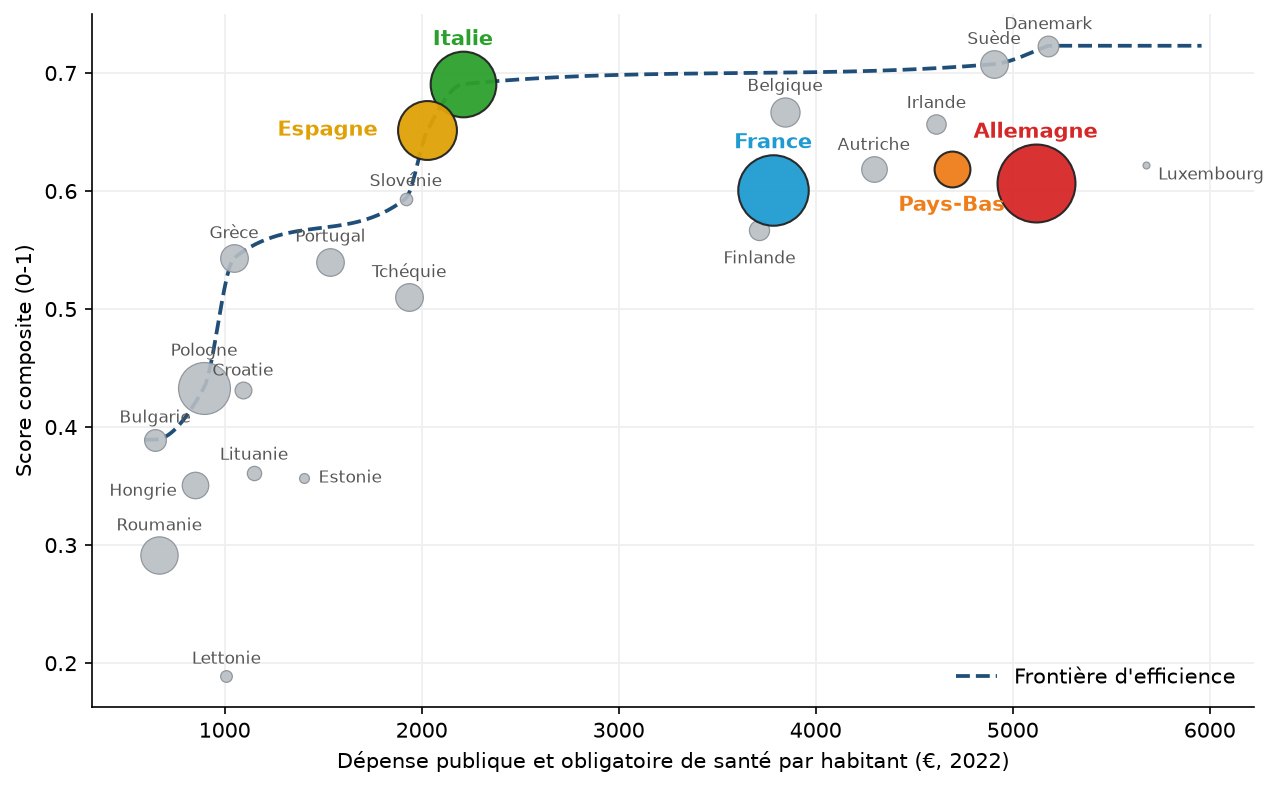
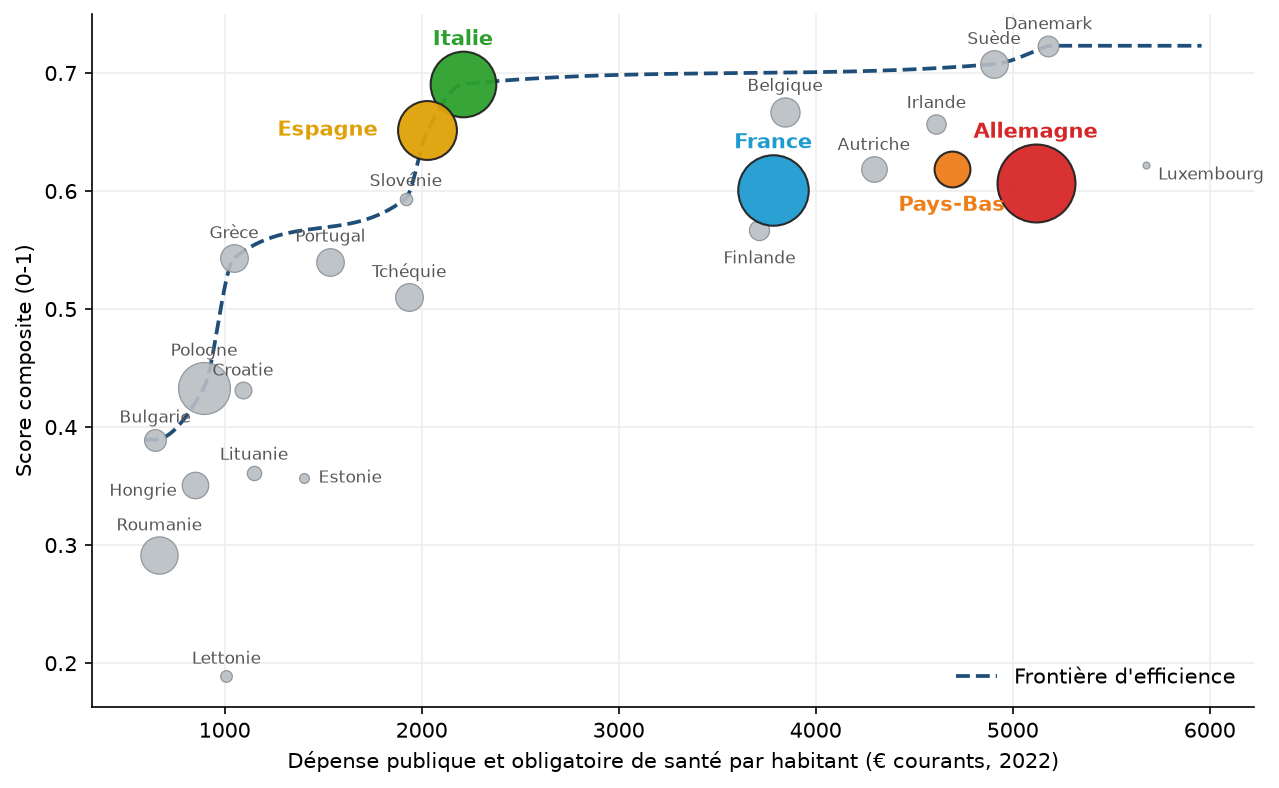
Efficience : figure santé en parité de pouvoir d'achat (variante)
Claude-Session: https://claude.ai/code/session_01SW7mKrk2bK8EYwjJ4TJnMY

Changed region(s): [[0.2134, 0.9442, 0.8233, 0.9746]]

diff --git a/pisa/efficience/bulletin.py b/pisa/efficience/bulletin.py
@@ -136,6 +136,7 @@ pop = W.loc[("pop_totale", 2022)]
 _d = serie("edu_dep_eleve_cite1_2_pub_eur")
 dep_edu = _d.loc[2022:2024].mean().fillna(_d.ffill().iloc[-1]).reindex(PE)   # à défaut : dernière valeur
 dep_san = serie("sante_dep_pub_hab_eur").loc[2022].reindex(PS)
+dep_san_ppa = serie("sante_dep_pub_hab_spa").loc[2022].reindex(PS)       # variante : SPA (PPA Eurostat)
 
 res = {}
 for dom, pays, poids, dep in (("education", PE, eleves.reindex(PE), dep_edu),
@@ -146,6 +147,10 @@ for dom, pays, poids, dep in (("education", PE, eleves.reindex(PE), dep_edu),
     res[dom] = dict(N=N, O=O, g=g, ecart=ecart, C=C, dep=dep, front=front, inverse=inverse, S=S, R=R,
                     poids=poids)
 
+# variante santé en PPA : mêmes scores, seule la dépense (axe horizontal) change
+_f, _i, _ = frontiere(dep_san_ppa, res["sante"]["g"])
+res_ppa = dict(res["sante"], dep=dep_san_ppa, front=_f, inverse=_i)
+
 tab = []
 for dom, r in res.items():
     rang = r["g"].rank(ascending=False).astype(int)
@@ -154,6 +159,9 @@ for dom, r in res.items():
                     "ecart_ue_points": 100 * r["ecart"][p],
                     **{f"contrib_{o}": 100 * r["C"].loc[p, o] for o in r["C"].columns},
                     "depense": r["dep"][p], "ratio_efficience": r["g"][p] / float(r["front"](r["dep"][p])),
+                    **({"depense_ppa": dep_san_ppa[p],
+                        "ratio_efficience_ppa": r["g"][p] / float(res_ppa["front"](dep_san_ppa[p]))}
+                       if dom == "sante" else {}),
                     "rang_median_sensib": np.median(r["R"].loc[p]),
                     "rang_p5": np.percentile(r["R"].loc[p], 5), "rang_p95": np.percentile(r["R"].loc[p], 95)})
 TAB = pd.DataFrame(tab)
@@ -185,7 +193,9 @@ plt.rcParams.update({"font.family": "DejaVu Sans", "font.size": 10, "axes.spines
 
 
 # position des étiquettes qui se chevauchent (décalage en points, par domaine)
-DECALAGES = {"sante": {"HU": (-9, -3), "EE": (7, 0), "LU": (6, -5), "ES": (-24, 0), "FI": (0, -16), "NL": (0, -20)}}
+DECALAGES = {"sante": {"HU": (-9, -3), "EE": (7, 0), "LU": (6, -5), "ES": (-24, 0), "FI": (0, -16), "NL": (0, -20)},
+             "sante_ppa": {"ES": (-24, 0), "IE": (8, 0), "LU": (8, -9), "NL": (12, 0), "HU": (-9, -3),
+                           "EE": (0, -12), "LT": (7, 0), "HR": (7, 0), "BE": (-8, 6)}}
 
 
 def nuage(ax, r, xlabel, taille, titre_ax=None, halo=False, decalages=None):
@@ -251,11 +261,15 @@ def decomposition(r, nom, libelles, legende_ref):
 
 
 # figure 1 et figure 3 : nuages
-for dom, nom, xl in (("education", "figure1_education.png",
-                      "Dépense publique par élève, primaire + 1er cycle secondaire (€, moy. 2022-2024)"),
-                     ("sante", "figure3_sante.png", "Dépense publique et obligatoire de santé par habitant (€, 2022)")):
+for r, dom, nom, xl in (
+        (res["education"], "education", "figure1_education.png",
+         "Dépense publique par élève, primaire + 1er cycle secondaire (€, moy. 2022-2024)"),
+        (res["sante"], "sante", "figure3_sante.png",
+         "Dépense publique et obligatoire de santé par habitant (€ courants, 2022)"),
+        (res_ppa, "sante_ppa", "figure3_sante_ppa.png",
+         "Dépense publique et obligatoire de santé par habitant (€ en parité de pouvoir d'achat, 2022)")):
     fig, ax = plt.subplots(figsize=(10, 6))
-    nuage(ax, res[dom], xl, res[dom]["poids"], decalages=DECALAGES.get(dom))
+    nuage(ax, r, xl, r["poids"], decalages=DECALAGES.get(dom))
     ax.legend(loc="lower right", frameon=False)
     fig.savefig(FIG / nom)
     plt.close(fig)

diff --git a/pisa/efficience/README.md b/pisa/efficience/README.md
@@ -88,7 +88,8 @@ et, pour les sources complexes, des notes `<nom>_notes.md`.
 - `resultats_bulletin.csv` ;
 - dans `figures/` :
   - `figure1_education.png`, `figure2_decomposition_education.png` ;
-  - `figure3_sante.png`, `figure4_decomposition_sante.png` ;
+  - `figure3_sante.png` (dépense HF1 en euros courants), `figure3_sante_ppa.png` (même dépense en
+    parité de pouvoir d'achat), `figure4_decomposition_sante.png` ;
   - `encadre_depense_education.png`, `figureA_sensibilite.png`.
 
 Le schéma de la chaîne méthodologique n'est pas reproduit : il ne repose sur aucune donnée.
@@ -120,8 +121,14 @@ En santé, avec la dépense publique et obligatoire (HF1, euros, 2022) :
 | Ratio d'efficience | 83 % | 86 % |
 | Pays sur la frontière | BG, PL, EL, PT, SI, IT, SE | BG, PL, EL, SI, ES, IT, SE, DK |
 
-Avec la dépense totale en PPA (OCDE), le ratio de la France vaut 83 %, mais la frontière passe par
-d'autres pays (Croatie, Roumanie) que dans la note.
+En parité de pouvoir d'achat (`figure3_sante_ppa.png`, colonne `ratio_efficience_ppa`) :
+- le ratio de la France passe de 86 % à 83 % ;
+- les pays d'Europe centrale et orientale perdent beaucoup : Pologne de 100 % à 73 %, Roumanie de 75 %
+  à 55 %, Hongrie de 83 % à 62 %, Tchéquie de 85 % à 73 %.
+
+Variante intermédiaire, où les biens médicaux sont comptés au prix de marché et le reste en PPA :
+la France est à 83 %, la Pologne à 73 %, la Roumanie à 63 %. Les biens médicaux ne pèsent que
+5 à 26 % de la dépense HF1, le personnel et les services le reste.
 
 Écarts restants :
 
